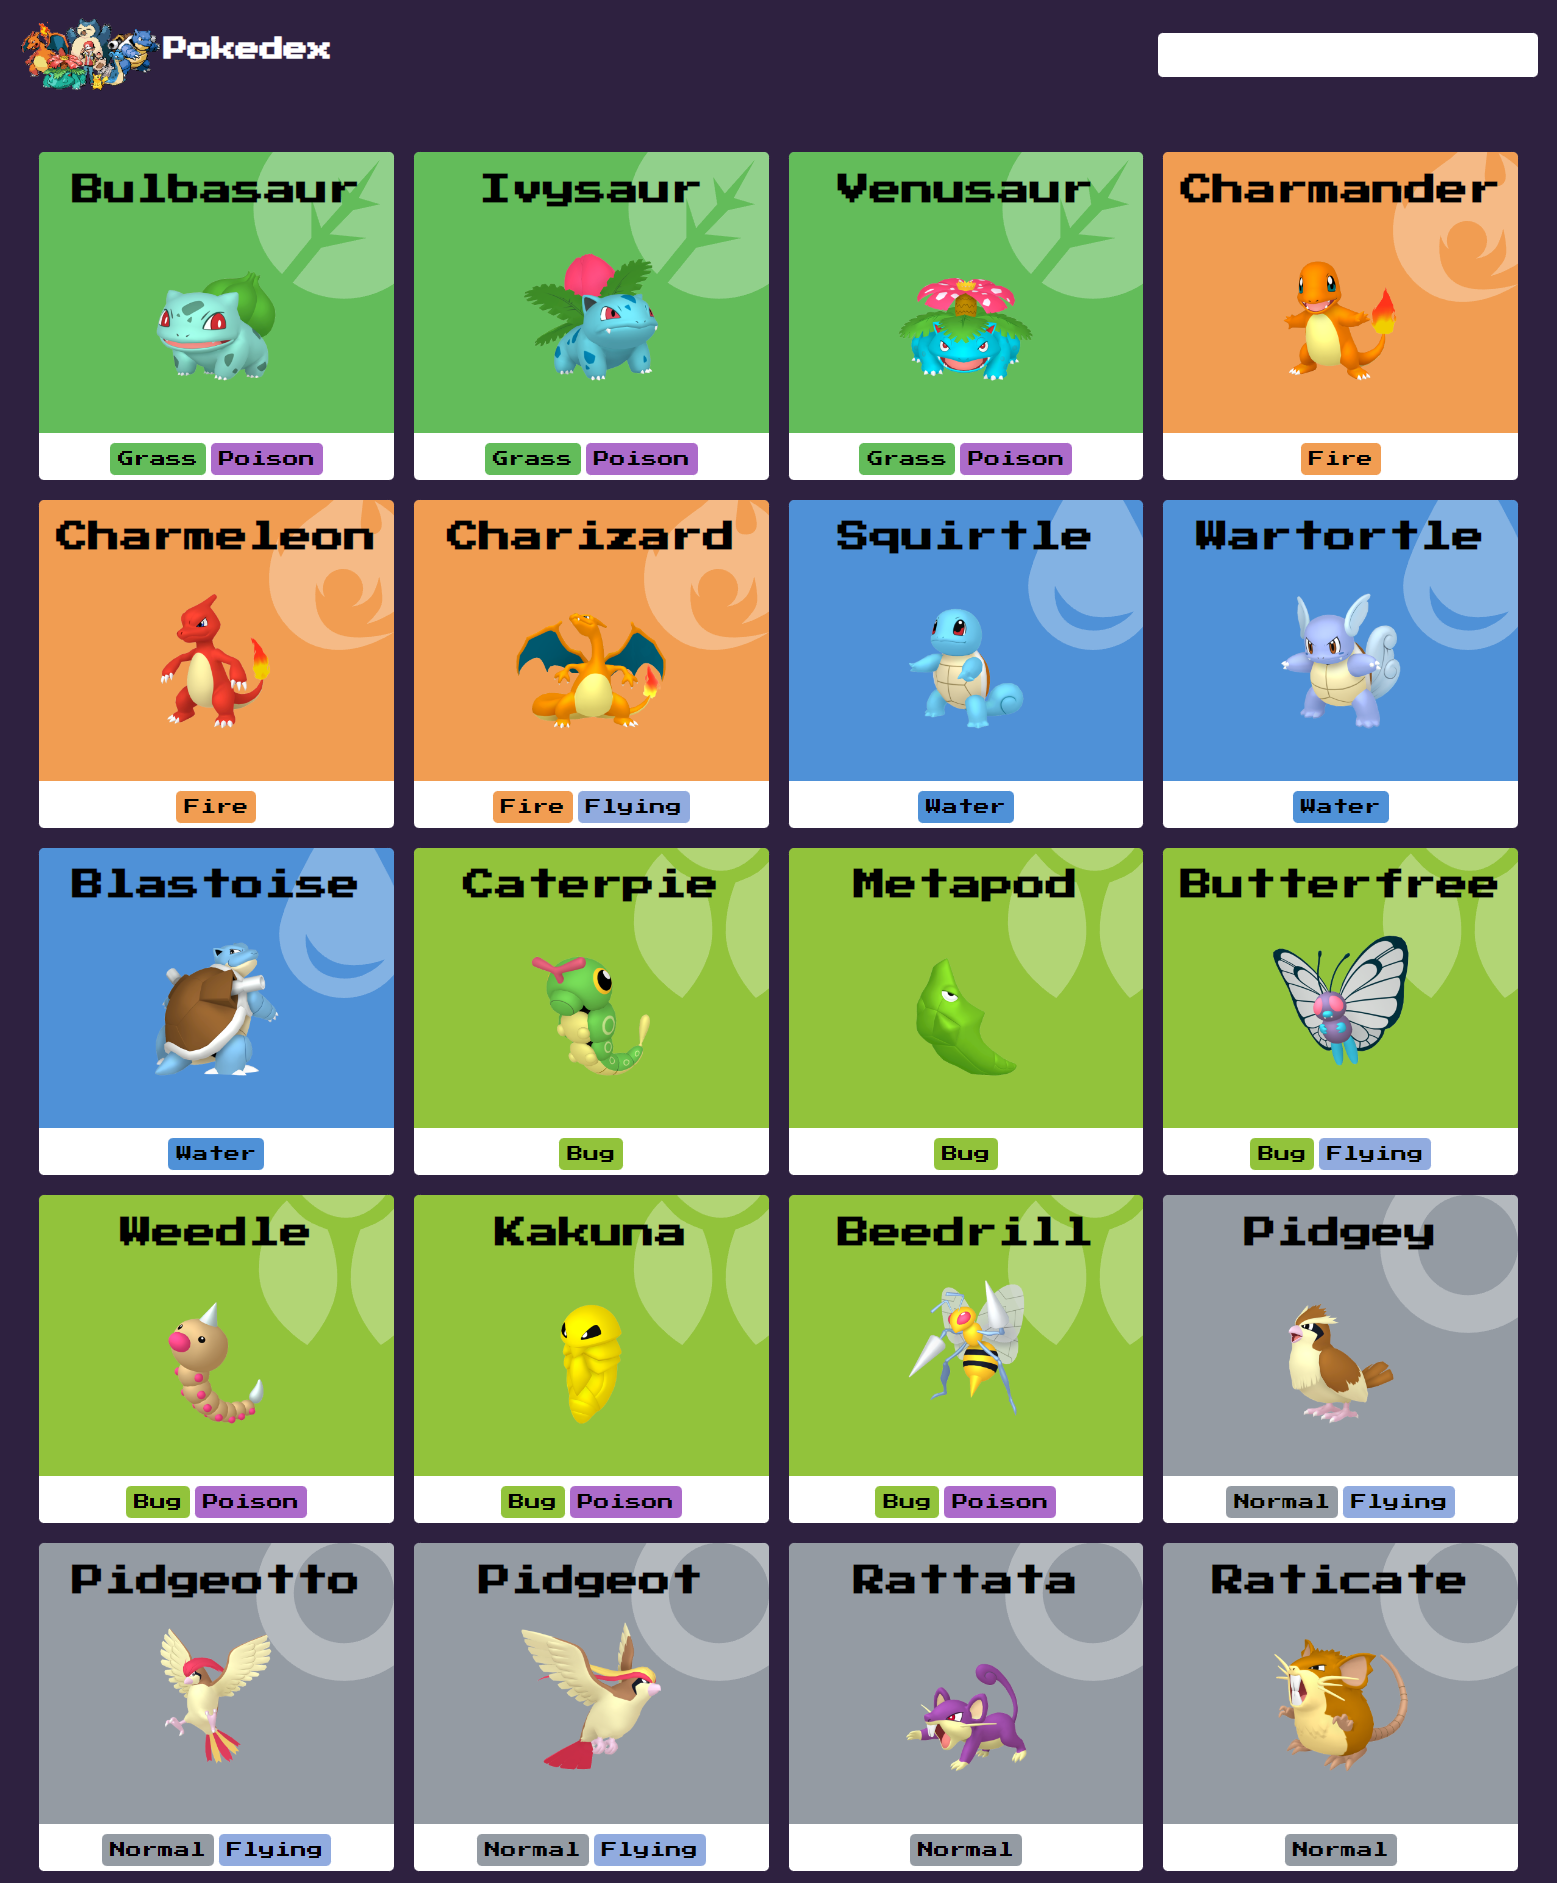
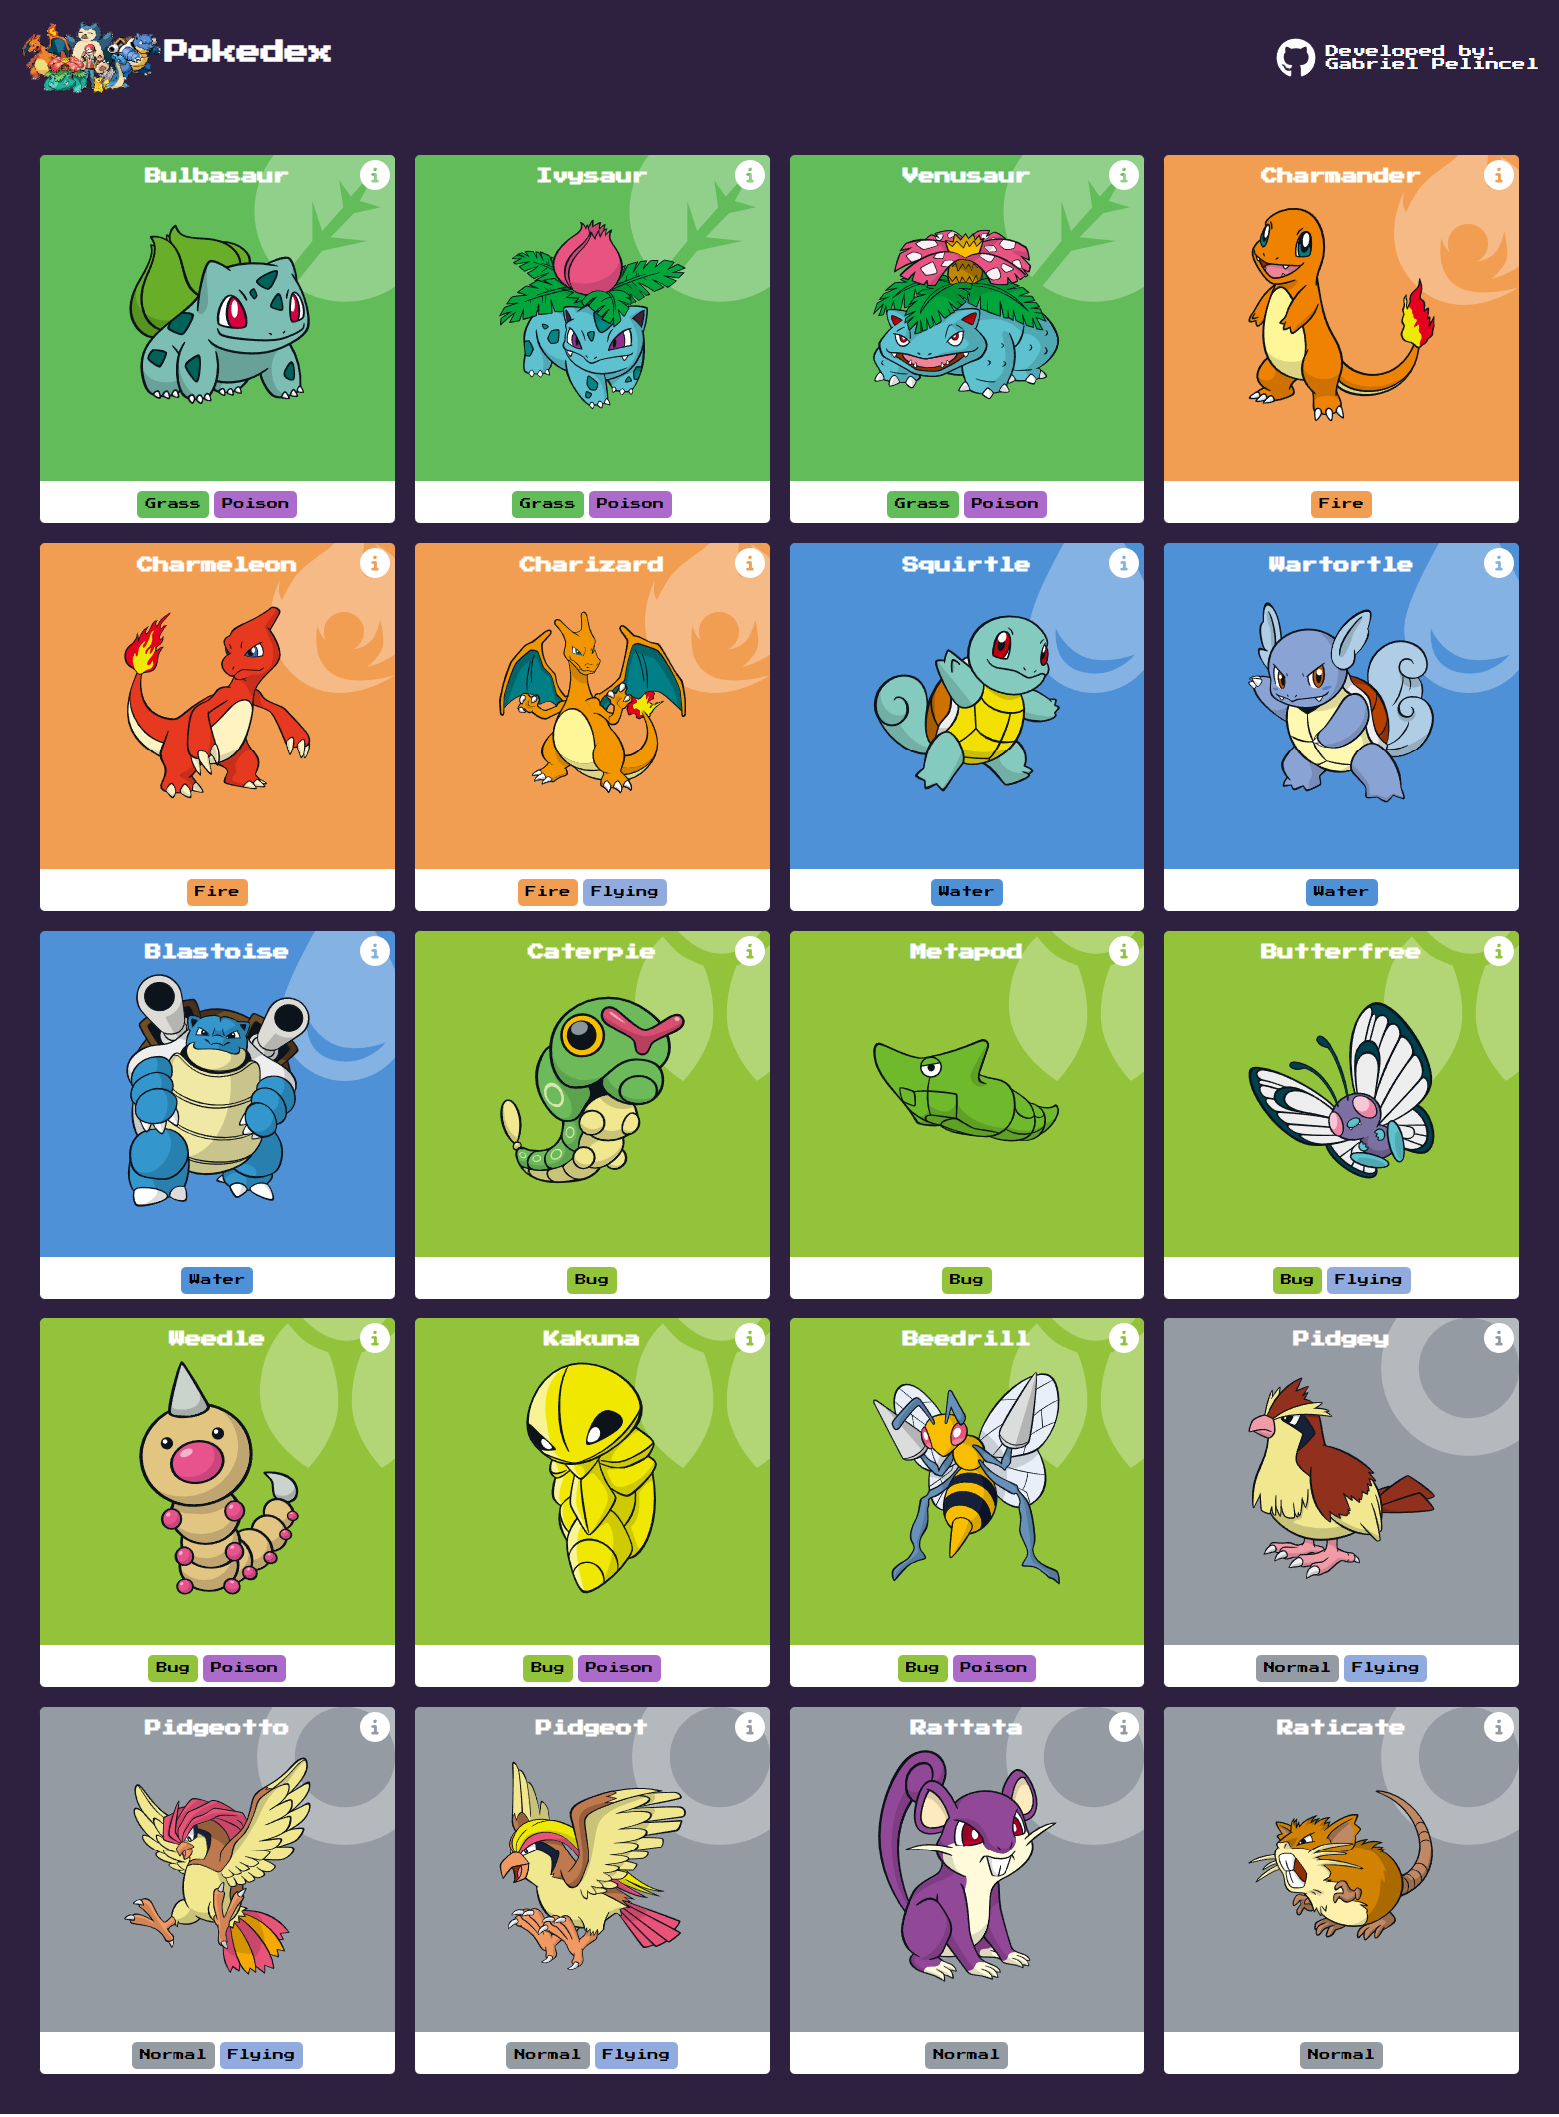
Start responsive css

diff --git a/src/components/Header/Header.jsx b/src/components/Header/Header.jsx
@@ -3,15 +3,18 @@ import logo from './../../assets/img/logo.gif';
 
 console.log(logo);
 
-function Header () {
+function Header() {
     return (
         <header>
             <div className="logo">
                 <img src={logo} alt="logo-gif" />
                 <h2>Pokedex</h2>
             </div>
-            <div className="search-input">
-                <input type="search" />
+            <div className="developed">
+                <a href="https://github.com/gpelincel">
+                    <svg className='git-icon' xmlns="http://www.w3.org/2000/svg" viewBox="0 0 496 512"><path d="M165.9 397.4c0 2-2.3 3.6-5.2 3.6-3.3.3-5.6-1.3-5.6-3.6 0-2 2.3-3.6 5.2-3.6 3-.3 5.6 1.3 5.6 3.6zm-31.1-4.5c-.7 2 1.3 4.3 4.3 4.9 2.6 1 5.6 0 6.2-2s-1.3-4.3-4.3-5.2c-2.6-.7-5.5.3-6.2 2.3zm44.2-1.7c-2.9.7-4.9 2.6-4.6 4.9.3 2 2.9 3.3 5.9 2.6 2.9-.7 4.9-2.6 4.6-4.6-.3-1.9-3-3.2-5.9-2.9zM244.8 8C106.1 8 0 113.3 0 252c0 110.9 69.8 205.8 169.5 239.2 12.8 2.3 17.3-5.6 17.3-12.1 0-6.2-.3-40.4-.3-61.4 0 0-70 15-84.7-29.8 0 0-11.4-29.1-27.8-36.6 0 0-22.9-15.7 1.6-15.4 0 0 24.9 2 38.6 25.8 21.9 38.6 58.6 27.5 72.9 20.9 2.3-16 8.8-27.1 16-33.7-55.9-6.2-112.3-14.3-112.3-110.5 0-27.5 7.6-41.3 23.6-58.9-2.6-6.5-11.1-33.3 2.6-67.9 20.9-6.5 69 27 69 27 20-5.6 41.5-8.5 62.8-8.5s42.8 2.9 62.8 8.5c0 0 48.1-33.6 69-27 13.7 34.7 5.2 61.4 2.6 67.9 16 17.7 25.8 31.5 25.8 58.9 0 96.5-58.9 104.2-114.8 110.5 9.2 7.9 17 22.9 17 46.4 0 33.7-.3 75.4-.3 83.6 0 6.5 4.6 14.4 17.3 12.1C428.2 457.8 496 362.9 496 252 496 113.3 383.5 8 244.8 8zM97.2 352.9c-1.3 1-1 3.3.7 5.2 1.6 1.6 3.9 2.3 5.2 1 1.3-1 1-3.3-.7-5.2-1.6-1.6-3.9-2.3-5.2-1zm-10.8-8.1c-.7 1.3.3 2.9 2.3 3.9 1.6 1 3.6.7 4.3-.7.7-1.3-.3-2.9-2.3-3.9-2-.6-3.6-.3-4.3.7zm32.4 35.6c-1.6 1.3-1 4.3 1.3 6.2 2.3 2.3 5.2 2.6 6.5 1 1.3-1.3.7-4.3-1.3-6.2-2.2-2.3-5.2-2.6-6.5-1zm-11.4-14.7c-1.6 1-1.6 3.6 0 5.9 1.6 2.3 4.3 3.3 5.6 2.3 1.6-1.3 1.6-3.9 0-6.2-1.4-2.3-4-3.3-5.6-2z" /></svg>
+                </a>
+                    <small>Developed by:<br />Gabriel Pelincel</small>
             </div>
         </header>
     );

diff --git a/src/components/Pokemodal/Pokemodal.scss b/src/components/Pokemodal/Pokemodal.scss
@@ -17,7 +17,7 @@
         border-radius: 5px;
         color: #FFF;
         padding: 20px;
-        width: 50%;
+        width: 60%;
         margin: 5% auto;
         gap: 1px;
         align-items: center;
@@ -69,9 +69,6 @@
                 padding: 10px;
                 display: flex;
                 align-items: center;
-                // -webkit-box-shadow: 10px 10px 22px 4px rgba(0, 0, 0, 0.28);
-                // -moz-box-shadow: 10px 10px 22px 4px rgba(0, 0, 0, 0.28);
-                // box-shadow: 10px 10px 22px 4px rgba(0, 0, 0, 0.28);
 
                 .stat-name {
                     width: 30%;
@@ -81,7 +78,7 @@
                 .stats-bar {
                     flex-grow: 1;
                     background: #0002;
-                    width: 100%;
+                    width: auto;
                     margin: 0 10px;
                     height: 5px;
 
@@ -97,5 +94,22 @@
                 }
             }
         }
+    }
+}
+
+@media (max-width: 768px){
+    .modal{
+        .modal-content{
+            width: 75%;
+            font-size: 0.6em;
+        }
+    }
+    
+    img{
+     width: 25vw;   
+    }
+
+    .stat{
+        font-size: 0.6em;
     }
 }

diff --git a/src/components/Header/Header.scss b/src/components/Header/Header.scss
@@ -11,18 +11,42 @@ header {
         height: 10vh;
     }
 
-    .search-input {
-        width: 25%;
-        input {
-            border: none;
-            border-radius: 5px;
-            padding: 8px;
-            width: 100%;
-            font-size: 1.5em;
+    .developed {
+        display: flex;
+        align-items: center;
+        gap: 10px;
+        width: fit-content;
+
+        a {
+            .git-icon {
+                width: 40px;
+                height: 40px;
+                fill: #FFF;
+            }
+        }
+    }
+}
+
+@media (max-width: 480px) {
+    header {
+        h2 {
+            font-size: 1.6em;
         }
 
-        input:focus{
-            outline: none;
+        .developed {
+            display: none;
+        }
+    }
+}
+
+@media (max-width: 768px) and (min-width: 481px) {
+    header {
+        h2 {
+            font-size: 1.6em;
+        }
+
+        .developed {
+            display: none;
         }
     }
 }

diff --git a/src/components/Header/Header.css b/src/components/Header/Header.css
@@ -10,16 +10,32 @@ header .logo {
   display: flex;
   height: 10vh;
 }
-header .search-input {
-  width: 25%;
+header .developed {
+  display: flex;
+  align-items: center;
+  gap: 10px;
+  width: -moz-fit-content;
+  width: fit-content;
 }
-header .search-input input {
-  border: none;
-  border-radius: 5px;
-  padding: 8px;
-  width: 100%;
-  font-size: 1.5em;
+header .developed a .git-icon {
+  width: 40px;
+  height: 40px;
+  fill: #FFF;
 }
-header .search-input input:focus {
-  outline: none;
+
+@media (max-width: 480px) {
+  header h2 {
+    font-size: 1.6em;
+  }
+  header .developed {
+    display: none;
+  }
+}
+@media (max-width: 768px) and (min-width: 481px) {
+  header h2 {
+    font-size: 1.6em;
+  }
+  header .developed {
+    display: none;
+  }
 }/*# sourceMappingURL=Header.css.map */

diff --git a/src/components/Pokecard/Pokecard.scss b/src/components/Pokecard/Pokecard.scss
@@ -15,7 +15,7 @@
         position: relative;
         overflow: hidden;
 
-        .info-icon{
+        .info-icon {
             position: absolute;
             right: 0;
             height: 30px;
@@ -35,8 +35,9 @@
         }
 
         .card-header {
-            h2{
+            h2 {
                 color: #FFF;
+                font-size: 1em;
             }
         }
 
@@ -45,8 +46,8 @@
 
             img {
                 z-index: 2;
-                width: 10vw;
-                height: 10vw;
+                width: 12vw;
+                height: 15vw;
                 padding-bottom: 50px;
             }
         }
@@ -62,6 +63,7 @@
             text-transform: capitalize;
             padding: 8px;
             border-radius: 5px;
+            font-size: 0.7em;
         }
     }
 }

diff --git a/src/components/Pokemodal/Pokemodal.css b/src/components/Pokemodal/Pokemodal.css
@@ -17,7 +17,7 @@
   border-radius: 5px;
   color: #FFF;
   padding: 20px;
-  width: 50%;
+  width: 60%;
   margin: 5% auto;
   gap: 1px;
   align-items: center;
@@ -72,7 +72,7 @@
 .modal .modal-content .modal-footer .stat .stats-bar {
   flex-grow: 1;
   background: rgba(0, 0, 0, 0.1333333333);
-  width: 100%;
+  width: auto;
   margin: 0 10px;
   height: 5px;
 }
@@ -84,4 +84,17 @@
   font-size: 0.8em;
   width: -moz-min-content;
   width: min-content;
+}
+
+@media (max-width: 768px) {
+  .modal .modal-content {
+    width: 75%;
+    font-size: 0.6em;
+  }
+  img {
+    width: 25vw;
+  }
+  .stat {
+    font-size: 0.6em;
+  }
 }/*# sourceMappingURL=Pokemodal.css.map */

diff --git a/src/components/Pokecard/Pokecard.css b/src/components/Pokecard/Pokecard.css
@@ -35,14 +35,15 @@
 }
 .card .type-wrapper .card-header h2 {
   color: #FFF;
+  font-size: 1em;
 }
 .card .type-wrapper .card-body {
   position: relative;
 }
 .card .type-wrapper .card-body img {
   z-index: 2;
-  width: 10vw;
-  height: 10vw;
+  width: 12vw;
+  height: 15vw;
   padding-bottom: 50px;
 }
 .card .card-footer {
@@ -55,4 +56,5 @@
   text-transform: capitalize;
   padding: 8px;
   border-radius: 5px;
+  font-size: 0.7em;
 }/*# sourceMappingURL=Pokecard.css.map */

diff --git a/src/components/Pokelist/Pokelist.css b/src/components/Pokelist/Pokelist.css
@@ -4,4 +4,15 @@ main .pokegrid {
   gap: 20px;
   background: #2E2140;
   padding: 40px;
+}
+
+@media (max-width: 480px) {
+  main .pokegrid {
+    grid-template-columns: repeat(1, 1fr);
+  }
+}
+@media (max-width: 768px) and (min-width: 481px) {
+  main .pokegrid {
+    grid-template-columns: repeat(2, 1fr);
+  }
 }/*# sourceMappingURL=Pokelist.css.map */

diff --git a/src/components/Pokelist/Pokelist.scss b/src/components/Pokelist/Pokelist.scss
@@ -7,3 +7,19 @@ main{
         padding: 40px;
     }
 }
+
+@media (max-width: 480px){
+    main{
+        .pokegrid{
+            grid-template-columns: repeat(1, 1fr);
+        }
+    }
+}
+
+@media (max-width: 768px) and (min-width: 481px){
+    main{
+        .pokegrid{
+            grid-template-columns: repeat(2, 1fr);
+        }
+    }
+}

diff --git a/README.md b/README.md
@@ -9,6 +9,7 @@ This project was created, mostly, to learn about React, but also to choose wich 
 # 📸 Project screenshots
 
 <img src="./src/assets/screenshots/screen-1.png">
+<img src="./src/assets/screenshots/screen-2.png">
 
 ### Todo list
 
